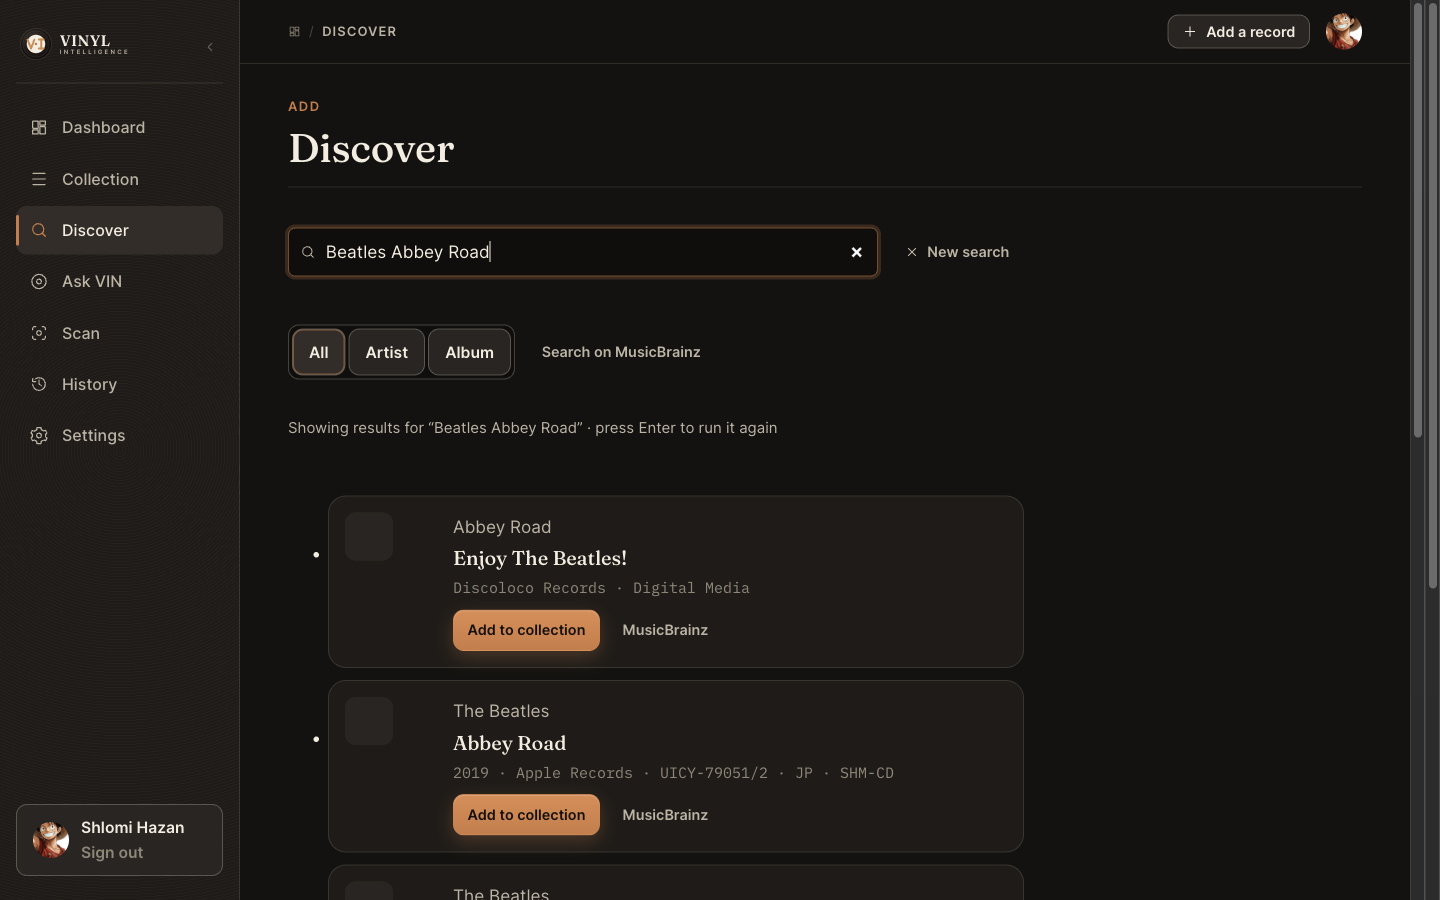
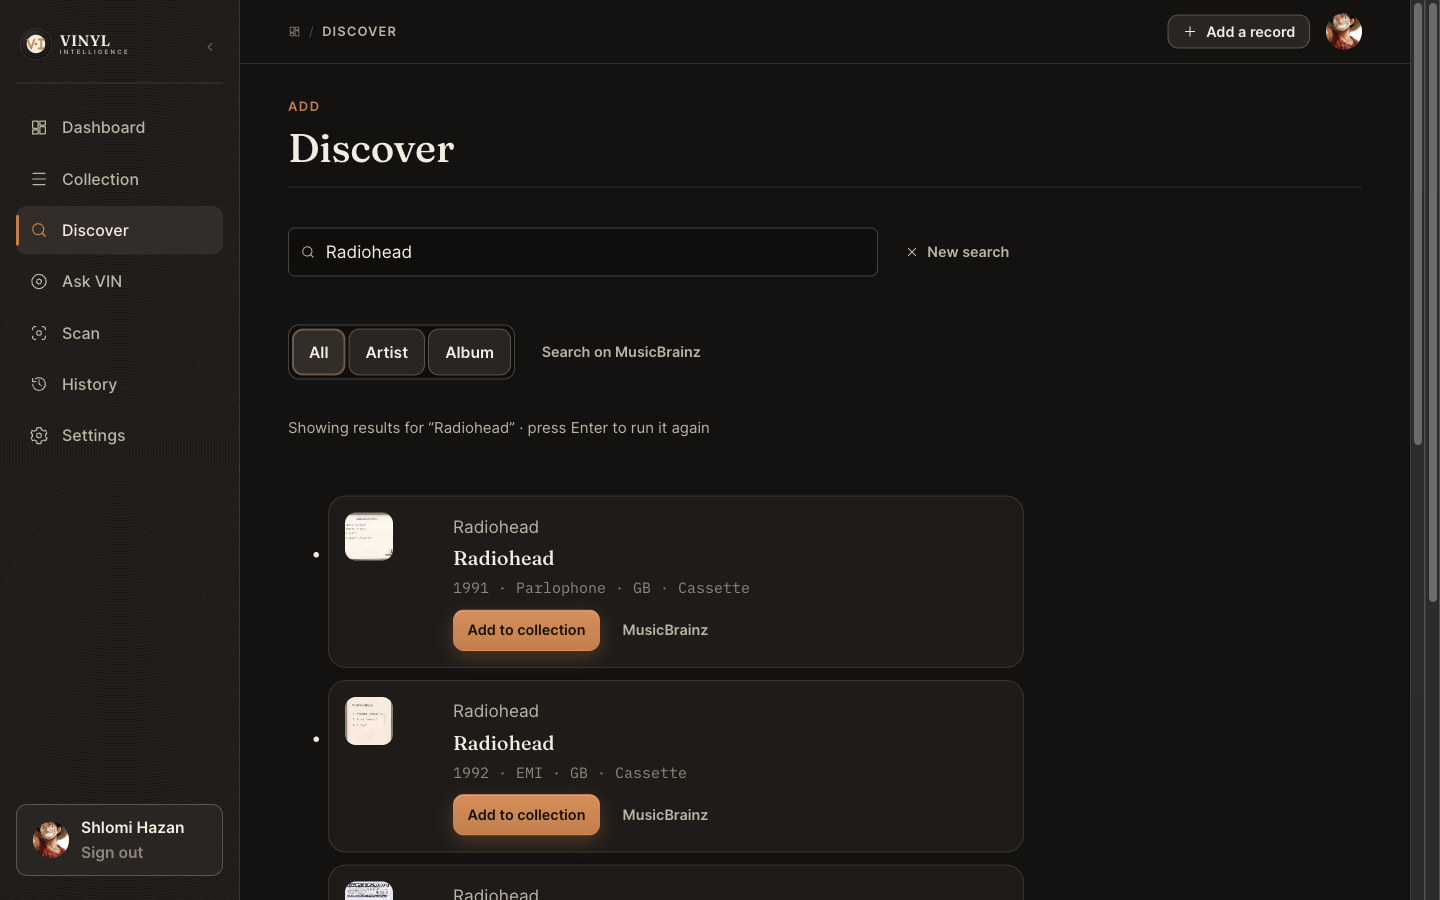
docs: correct sec23 matrix items 3/10/22, PR-A wording, and stale artwork
Second round of targeted corrections from independent review.

1. Item 22 (Scan flow) was misclassified as STILL REQUIRES HUMAN
   OBSERVATION with a checklist item asking the human to authorize a
   Vision call. Plan 017's own "Human production acceptance" section
   explicitly and unconditionally resolves item 22 via (a) the automated
   mocked ScanPanel regression suite, (b) the client.test.ts compatibility
   assertion, and (c) already-existing accepted production Scan evidence -
   zero Vision calls, no conditional exception. Reclassified item 22 as
   AUTOMATED BY CONTRACT + HISTORICAL/EXISTING ACCEPTED EVIDENCE, citing
   Plan 017's own text, and removed the checklist item entirely. No Vision
   call requested or made.

2. Item 3 (Album mode) was marked HUMAN-OBSERVED from "album/title-focused
   search works," but Plan 017's own "Restored alignment with spec §23"
   requires a same-term All-vs-Album comparative observation, which was
   never recorded. Reclassified as STILL REQUIRES HUMAN OBSERVATION; the
   remaining checklist now explicitly asks for a same-term comparison.

3. Item 10 (exact release identity) was marked HUMAN-OBSERVED from
   "resolves to exactly one release candidate," which proves single-result
   resolution but not that the displayed candidate's identity was checked
   against the pasted URL's actual release. Reclassified as STILL REQUIRES
   HUMAN OBSERVATION (partial evidence noted); the checklist now makes the
[…]

diff --git a/docs/verification.md b/docs/verification.md
@@ -5770,21 +5770,26 @@ beyond what was actually reported.
 
 Categories: **HUMAN-OBSERVED** — directly covered by one of the 8 reported
 smoke observations above; **AUTOMATED BY CONTRACT** — §23's own text states
-automated evidence is sufficient for this item; **STILL REQUIRES HUMAN
-OBSERVATION** — not yet covered by any evidence on record.
+automated evidence is sufficient for this item; **AUTOMATED BY CONTRACT +
+HISTORICAL/EXISTING ACCEPTED EVIDENCE** — Plan 017's own explicit
+acceptance design (not this document's own judgment) names automated
+evidence plus already-accepted historical production evidence as
+sufficient; **STILL REQUIRES HUMAN OBSERVATION** — not yet covered by any
+evidence on record (including where partial evidence exists but the full
+item is not yet proven — noted per-item).
 
 | # | §23 item (summary) | Classification | Evidence |
 | --- | --- | --- | --- |
 | 1 | All-mode search matches by artist name alone (the corrected behavior), via an artist-only query | STILL REQUIRES HUMAN OBSERVATION | Smoke item 2 reports only "a real search returns results" — no detail confirms the query was artist-name-only rather than a title/combined query. Not assumed. |
 | 2 | Artist mode produces artist-focused results on a deliberately ambiguous query | HUMAN-OBSERVED | Smoke item 3: "the same ambiguous/non-Latin query produces artist-focused results, distinct from All mode." |
-| 3 | Album mode produces title/release-focused results | HUMAN-OBSERVED | Smoke item 5: "album/title-focused search works." |
+| 3 | Album mode produces title/release-focused results, **comparatively improved over All mode for the same term** (Plan 017's own "Restored alignment with spec §23" — a same-term Term-B comparison, not merely "the mode works") | STILL REQUIRES HUMAN OBSERVATION | Smoke item 5 ("album/title-focused search works") does not record a same-term All-vs-Album comparison — only that Album mode itself produced results, not that they were compared against the same term's All-mode result. Not assumed. |
 | 4 | A Hebrew/non-Latin query remains intact end-to-end in **every** mode | STILL REQUIRES HUMAN OBSERVATION | Smoke item 3 confirms non-Latin text only for **Artist** mode. All mode and Album mode are not confirmed for non-Latin text. |
 | 5 | Initial page renders correctly (5 results, or fewer with no error) | HUMAN-OBSERVED | Reasonably implied by smoke item 2 ("a real search returns results"), which describes the initial page rendering without error. |
 | 6 | "Load more" appends without replacing/losing prior results | HUMAN-OBSERVED | Smoke item 4: "appends further results correctly; prior results remain." |
 | 7 | Rapid repeated "Load more" clicks do not produce parallel/duplicate requests or duplicate candidates | STILL REQUIRES HUMAN OBSERVATION | Not reported. |
 | 8 | Load-More-failure-preserves-prior-results | AUTOMATED BY CONTRACT | §23 item 8 explicitly states this is proven by the automated tests in §22, not human acceptance. |
 | 9 | Result exhaustion (partial page, or the 20-result window) correctly removes/disables "Load more" | STILL REQUIRES HUMAN OBSERVATION | Not reported. |
-| 10 | A real, valid MusicBrainz release URL resolves to the exact expected release | HUMAN-OBSERVED | Smoke item 6: "resolves to exactly one release candidate," consistent with the pasted URL's own release. |
+| 10 | A real, valid MusicBrainz release URL resolves to the **exact expected release** | STILL REQUIRES HUMAN OBSERVATION (partial evidence already exists) | Smoke item 6 confirms single-candidate resolution ("resolves to exactly one release candidate") — that much is observed. It does **not** record that the displayed candidate's artist/title/release identity was checked against the specific release the pasted URL represented. Single-result resolution and exact-identity confirmation are different facts; only the former is on record. |
 | 11 | An invalid release-group/artist/wrong-domain URL fails locally, zero network request | STILL REQUIRES HUMAN OBSERVATION | Not reported. |
 | 12 | The exact lookup itself makes no database write (collection count unchanged before an explicit Add) | STILL REQUIRES HUMAN OBSERVATION | Smoke items 6 and 7 are reported as separate observations; no before/after collection-count comparison isolating the lookup step from the Add step was reported. |
 | 13 | An already-owned exact-lookup result shows the duplicate-copy affordance and exact approved dialog copy | STILL REQUIRES HUMAN OBSERVATION | Not reported; item 6's tested URL was not reported as already-owned. |
@@ -5796,32 +5801,40 @@ OBSERVATION** — not yet covered by any evidence on record.
 | 19 | A manually-created record's Record Detail shows **no** MusicBrainz link | STILL REQUIRES HUMAN OBSERVATION | Not reported. |
 | 20 | Mobile Discover (modes, Load More, exact-URL input) has no horizontal overflow and remains usable | STILL REQUIRES HUMAN OBSERVATION | Not reported; all 8 smoke items describe desktop use. |
 | 21 | Existing manual-add path still works, unchanged | STILL REQUIRES HUMAN OBSERVATION | Smoke item 7 ("Add to collection: works successfully") describes a catalog-add from a live search/lookup result, not the separate manual-entry path. |
-| 22 | Existing Scan flow (recognition → candidates → confirm, including duplicate-copy) remains fully intact | STILL REQUIRES HUMAN OBSERVATION | Not reported; none of the 8 smoke items touch Scan. Note: §23's own preamble caps this acceptance round at **zero** OpenRouter/Vision/curator calls, so Scan's *vision recognition* step specifically cannot be exercised within that budget — a full item-22 check needs either a human-authorized real Vision call (a separate, explicit budget decision) or a scoped check of Scan's deterministic catalog-search/confirm/duplicate-copy steps only, which share code paths already covered by items 2–3, 10–14 above. Flagged for the human to decide, not resolved unilaterally here. |
+| 22 | Existing Scan flow (recognition → candidates → confirm, including duplicate-copy) remains fully intact | AUTOMATED BY CONTRACT + HISTORICAL/EXISTING ACCEPTED EVIDENCE (Plan 017's own explicit acceptance design — not resolved here on new authority) | Plan 017 §"Human production acceptance (spec §23, operationalized)," item 22, states this explicitly and unconditionally: proven by (a) the automated mocked `ScanPanel.test.tsx` regression suite (state machine, add, duplicate-copy, unmodified in intent), (b) the `client.test.ts` compatibility assertion for the shared catalog-search contract Scan depends on, and (c) already-existing, previously-accepted production Scan evidence (specs 0006/0016's own acceptance record), cited as historical evidence that Scan's recognition→candidate→confirm flow works in production. Plan 017 is explicit that this enhancement's acceptance round performs **zero** OpenRouter/Vision/VIN/curator calls, with **no conditional exception**, specifically citing item 22 — a new Vision call is not required, and none was made. |
 
-**Tally: 6 HUMAN-OBSERVED, 1 AUTOMATED BY CONTRACT, 15 STILL REQUIRE HUMAN
-OBSERVATION.**
+**Tally: 4 HUMAN-OBSERVED (items 2, 5, 6, 17), 1 AUTOMATED BY CONTRACT
+(item 8), 1 AUTOMATED BY CONTRACT + HISTORICAL/EXISTING ACCEPTED EVIDENCE
+(item 22 — requires no new human or Vision run), 16 STILL REQUIRE HUMAN
+OBSERVATION (items 1, 3, 4, 7, 9, 10, 11, 12, 13, 14, 15, 16, 18, 19, 20,
+21).**
+
+**Item 22 requires no further action from the human and no Vision call —
+Plan 017's own acceptance design already resolves it via automated +
+historical evidence, cited above.**
 
 #### Remaining human-only acceptance checklist
 
-The 15 items above, consolidated into actionable checks (no new provider
-call was made to produce this list; it is derived entirely from the spec
-text and the 8 already-reported observations):
+The 16 STILL-REQUIRES items above, consolidated into actionable checks (no
+new provider call was made to produce this list; it is derived entirely
+from the spec/plan text and the 8 already-reported observations; item 22
+is deliberately **not** included — see above):
 
 - **A.** All-mode search using an **artist-name-only** query (no title words) — confirm it now returns that artist's releases (item 1).
-- **B.** A Hebrew/non-Latin query in **All** mode and in **Album** mode — confirm the script is preserved intact in each (item 4; Artist mode already observed).
-- **C.** Rapid repeated "Load more" clicks — confirm no duplicate requests/candidates (item 7).
-- **D.** Result exhaustion (a narrow query with under 5 results, or reaching the 20-result window) — confirm "Load more" correctly disappears (item 9).
-- **E.** Paste an **invalid** MusicBrainz URL (wrong domain, wrong entity type, or malformed ID) — confirm local rejection with zero network request (item 11).
-- **F.** Paste a valid, **not-yet-owned** exact-release URL, confirm the collection count **before** clicking Add, then confirm it is unchanged after the lookup and increments by exactly one only after an explicit Add (items 12, and corroborates 7).
-- **G.** Paste an **already-owned** release's exact URL — confirm the duplicate-copy affordance and exact approved dialog copy appear (item 13).
-- **H.** Cancel that dialog — confirm the collection count is unchanged (item 14).
-- **I.** Click "Search on MusicBrainz" — confirm it opens the correct external MusicBrainz search page in a new tab (item 15).
-- **J.** Click an existing per-candidate "MusicBrainz" link on a search result — confirm it still opens that exact release's page (item 16).
-- **K.** Click the new "View on MusicBrainz" link on Record Detail — confirm it opens the **exact release** page, not a release-group page (item 18).
-- **L.** Open a manually-created record's Record Detail — confirm **no** MusicBrainz link appears (item 19).
-- **M.** Mobile viewport: Discover (modes, Load More, exact-URL input) — confirm no horizontal overflow and full usability (item 20).
-- **N.** The manual-add path (Add record → fill fields → save) — confirm it still works unchanged (item 21).
-- **O.** Scan flow — confirm candidates/confirm/duplicate-copy remain correct; **the human should decide** whether to authorize one real Vision call to exercise the full recognition step, or accept the deterministic-parts check described above as sufficient for item 22 given the acceptance round's zero-Vision-call cap.
+- **B.** A same-term comparison: search a deliberately ambiguous release-title-focused term in **All** mode, then the **same** term in **Album** mode — confirm the Album-mode results are visibly more title/release-focused, comparatively improved over the All-mode result for that same term (item 3 — Plan 017's own restored comparative criterion; "Album mode works" alone does not satisfy this).
+- **C.** A Hebrew/non-Latin query in **All** mode and in **Album** mode — confirm the script is preserved intact in each (item 4; Artist mode already observed via smoke item 3). Reusing check B's term for the Album-mode half satisfies this together with item 3 in the same act, per Plan 017's own reuse design.
+- **D.** Rapid repeated "Load more" clicks — confirm no duplicate requests/candidates (item 7).
+- **E.** Result exhaustion (a narrow query with under 5 results, or reaching the 20-result window) — confirm "Load more" correctly disappears (item 9).
+- **F.** Paste a valid, **not-yet-owned** exact-release URL: (i) confirm the **displayed candidate's artist/title/release identity matches the exact release the pasted URL represents** (item 10 — not yet confirmed; single-result resolution alone is insufficient), (ii) confirm the collection count is unchanged immediately after the lookup, before any Add is clicked, and increments by exactly one only after an explicit Add (item 12).
+- **G.** Paste an **invalid** MusicBrainz URL (wrong domain, wrong entity type, or malformed ID) — confirm local rejection with zero network request (item 11).
+- **H.** Paste an **already-owned** release's exact URL — confirm the duplicate-copy affordance and exact approved dialog copy appear (item 13).
+- **I.** Cancel that dialog — confirm the collection count is unchanged (item 14).
+- **J.** Click "Search on MusicBrainz" — confirm it opens the correct external MusicBrainz search page in a new tab (item 15).
+- **K.** Click an existing per-candidate "MusicBrainz" link on a search result — confirm it still opens that exact release's page (item 16).
+- **L.** Click the new "View on MusicBrainz" link on Record Detail — confirm it opens the **exact release** page, not a release-group page (item 18).
+- **M.** Open a manually-created record's Record Detail — confirm **no** MusicBrainz link appears (item 19).
+- **N.** Mobile viewport: Discover (modes, Load More, exact-URL input) — confirm no horizontal overflow and full usability (item 20).
+- **O.** The manual-add path (Add record → fill fields → save) — confirm it still works unchanged (item 21).
 
 Until these are completed and recorded, **do not** describe the Discover &
 MusicBrainz Navigation Enhancement as fully human production-accepted, and

diff --git a/docs/plans/017-discover-musicbrainz-navigation-enhancement.md b/docs/plans/017-discover-musicbrainz-navigation-enhancement.md
@@ -1,8 +1,9 @@
 # 017 Discover & MusicBrainz Navigation Enhancement (Implementation Plan)
 
 Status: **RUNTIME COMPLETE, MERGED, DEPLOYED — PR C (this document's own
-documentation closeout, PR #37) in progress.** PR A (this plan, PR #35; the
-spec, PR #34) is merged. PR B (runtime implementation, PR #36) is complete:
+documentation closeout, PR #37) in progress.** The spec (PR #34) is merged;
+it precedes this plan's own PR A/B/C execution sequence. PR A (this plan,
+PR #35) is merged. PR B (runtime implementation, PR #36) is complete:
 implemented, independently reviewed (one correction round — 0 BLOCKER /
 0 HIGH / 2 MEDIUM found and fixed in the same PR before merge — see
 `docs/verification.md` → "Discover & MusicBrainz Navigation Enhancement

diff --git a/docs/specs/0017-discover-musicbrainz-navigation-enhancement.md b/docs/specs/0017-discover-musicbrainz-navigation-enhancement.md
@@ -1,8 +1,9 @@
 # 0017 Discover & MusicBrainz Navigation Enhancement (Specification)
 
 Status: **RUNTIME COMPLETE, MERGED, DEPLOYED — documentation closeout (PR C)
-in progress; full §23 human acceptance not yet complete.** PR A (this spec,
-PR #34; the companion plan, PR #35) is merged. PR B (runtime implementation
+in progress; full §23 human acceptance not yet complete.** This spec
+(PR #34) is merged; it precedes Plan 017's own PR A/B/C execution sequence.
+PR A (the companion plan, PR #35) is merged. PR B (runtime implementation
 + one independent-review correction round — 0 BLOCKER / 0 HIGH / 2 MEDIUM
 found and fixed in the same PR before merge, PR #36) is implemented, merged
 (`abff1e86cbc36c754e8645179fa5bbee9ec27afe`), and deployed
